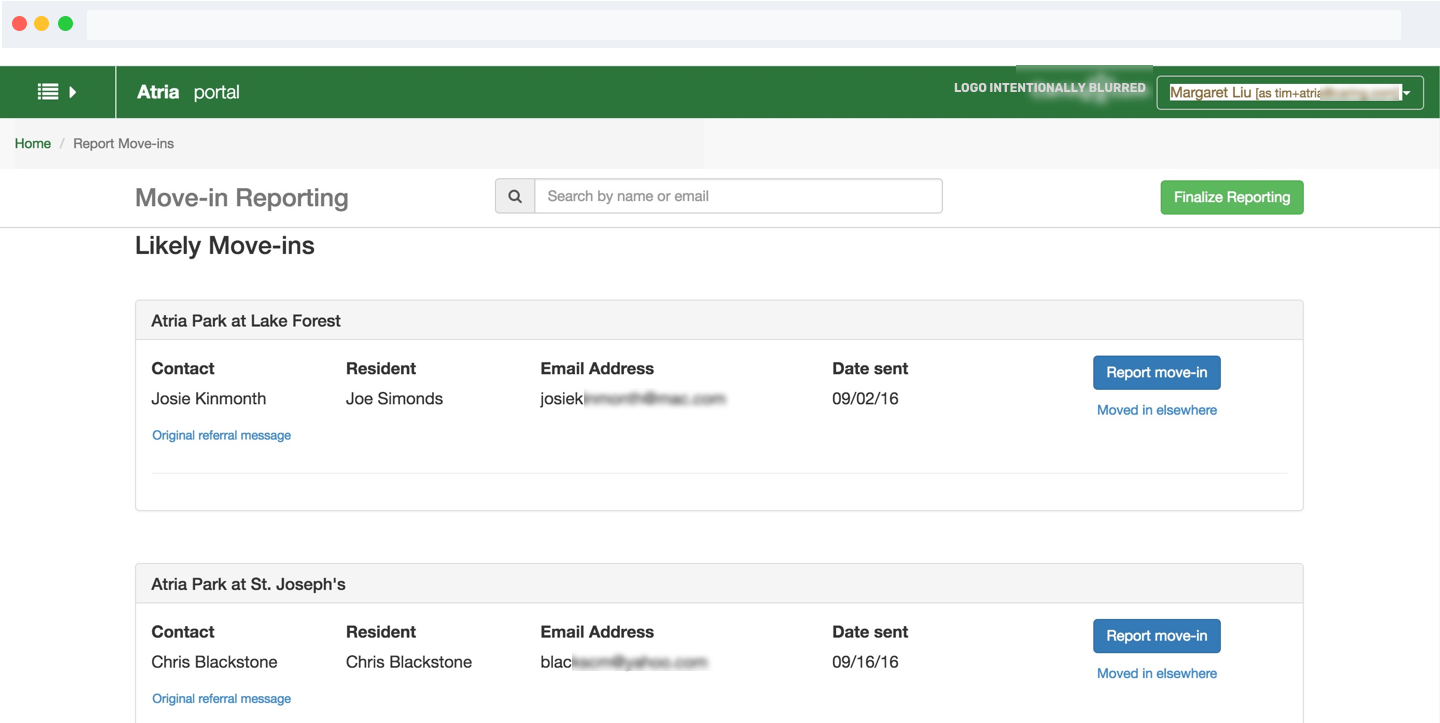
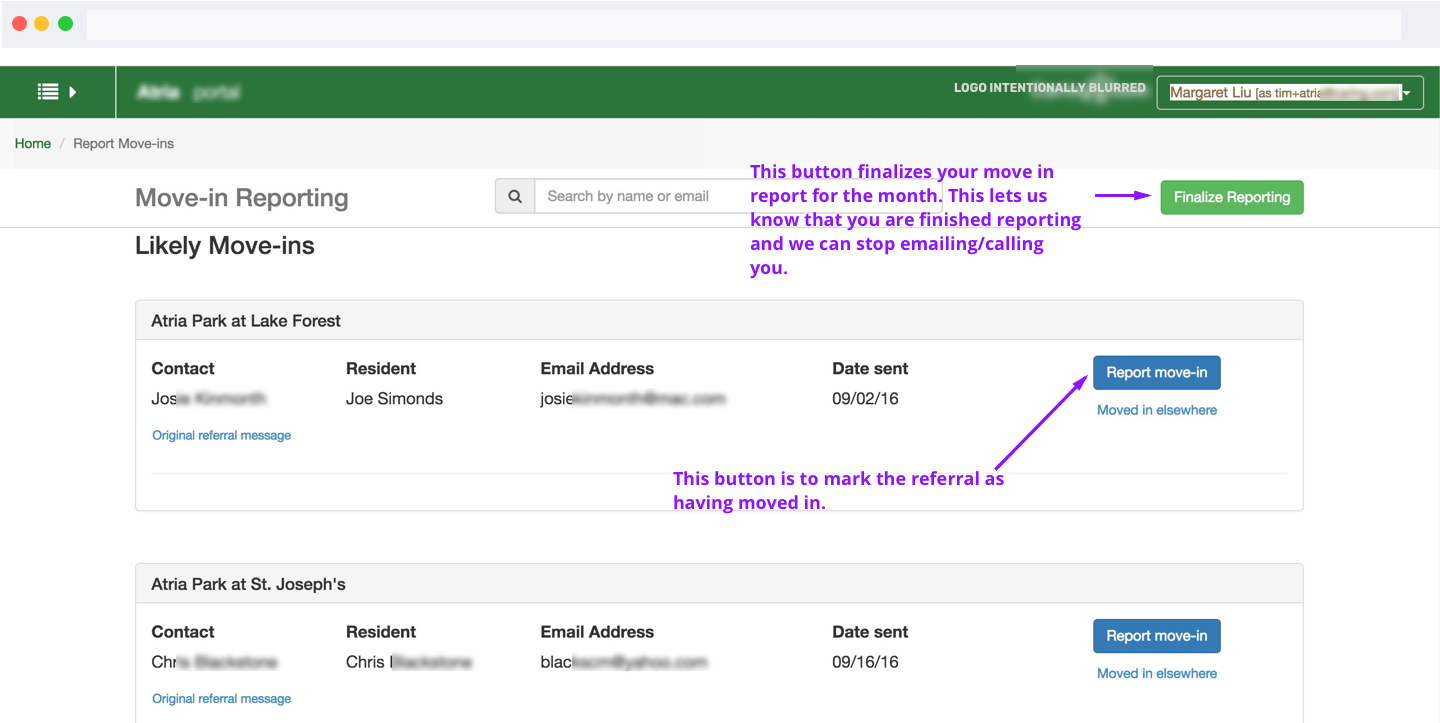
added more to portal page

diff --git a/portal.html b/portal.html
@@ -71,7 +71,7 @@
       <div class="wrapper">
         <div class="wrapper-section">
           <h1 class="wrapper-title">Dissecting the Problem</h1>
-          <p>I was given a set of business goals that I translated to better human experiences. Focusing on these human experiences is like the northern light for my design process. For me, that starts with getting to know the people that will be using our product. I sat with the PM and had casual conversations with some MVP users to just get a feel of how they felt about Partner Portal and how it tied in with their job and what motivates them. In our initial conversations, we focused on the big picture. We let this be the foundation for our product and later dug deeper to add the details. I translated these conversations to storyboards to discover what steps could be taken out, what felt natural and what didn’t, and opportunities where we could delight the user.</p>
+          <p>I was given a set of business goals that I translated to better human experiences. Focusing on these human experiences is like the northern light for my design process. For me, that starts with getting to know the people that will be using our product. I sat with the PM and had casual conversations with some users to just get a feel of how they felt about Partner Portal and how it tied in with their job and what motivates them. In our initial conversations, we focused on the big picture. We let this be the foundation for our product and later dug deeper to add the details. I translated these conversations to storyboards to discover what steps could be taken out, what felt natural and what didn’t, and opportunities where we could delight the user.</p>
           <img src="images/portalplanning.png" alt="My sketches for planning out partner portal" class="inline-images">
           <p class="caption">Scribbling out ideas and flows helps me to think - no matter how incomprehensible it may seem.</p>
           <img src="images/portal.gif" alt="Partner Portal" class="inline-images">
@@ -82,9 +82,7 @@
           <img src="images/likely_moveins.png" alt="Old Portal Move In Page" class="inline-images">
           <div class="caption">Portal move-ins page circa 2015. If you don't know the name of your referral, it could take a lot of scrolling to find. There was also a lot of confusion between the Finalize Reporting button and Report Move-in button.</div>
 
-        </div>
-        <div class="wrapper-section">
-          <h3 class="wrapper-title">Problems</h3>
+          <h3>Problems</h3>
           <ul>
             <li>Unable to update rates in real time, 24 hour lag</li>
             <li>Impossible to find leads in database</li>
@@ -94,7 +92,7 @@
         </div>
 
         <h1>Flow Mapping</h1>
-        <p>I focused most of the IA on our main flow; reporting a move in. Which parts could we cut? Which parts were more complex? Are there edge cases? Are there opportunities that we missed? We laid out the organization of the system so that we could see areas for improvement and landed on the below structure. </p>
+        <p>I focused most of the IA on our main flow; reporting a move in. Which parts could we cut? Which parts were more complex? Are there edge cases? Are there opportunities that we missed? We laid out the organization of the system so that we could see areas for improvement and landed on the below structure: </p>
         <img src="images/portalia.png" alt="Portal IA" class="inline-images">
 
         <p>The organization of the system was designed to accommodate new features that could be added in the future without compromising the most important ones.</p>
@@ -113,27 +111,60 @@
         <div class="caption">Visual organization = mental peace </div>
 
         <h1>Prioritizing Flows</h1>
-        <p>Through the initial research process, we concluded that Referrals should be made its own section allowing users to access the most important data with a single click. We compiled a spec that included the following:</p>
-        <ul>
-          <li>List of all leads that have been sent to the partner</li>
-          <li>Show the following data: date sent, statuses, contact name, phone number, resident name, agent name, agent phone number</li>
-          <li>Support SMB and chains</li>
-          <li>Form field for partners to be able to sent an update or add a note</li>
-          <li>Access a detailed view of any one referral</li>
-          <li>Search for Leads</li>
-          <li>Connect to referral emails</li>
-        </ul>
-        <p>After setting out to create an MVP, we had to decrease scope in some areas. The first version solved many of the issues we had with the old portal, but further testing revealed that it still wasn’t very intuitive. As a result, I played with various button placements and tweaked the layout and copy. </p>
+        <p>We had a set number of engineering points allocated for this story and that meant we had to prioritize and decrease scope. We focused on our initial goal of building a better relationship with our partners and used our research to discover what might be the biggest driving factor. In the end, we decided on re-designing the Report Move-ins Flow. </p>
 
-        <img src="images/referrallayouts.png" alt="different layouts for portal" class="inline-images">
+        <p>I started out with a critique of the current flow. Here is one page of many notes: </p>
 
-        <p>The flow still had a few tricky areas, but over a few iterations, these were resolved. I found that the two points that always appeared before a move-in was reported were from the Referral Detail view and from the Referrals View. Placing a “report move-in” button on those two pages made sense for the user and we saw a significant increase in move-in reporting.</p>
+        <img src="images/referralnotes.png" alt="critique of a page of the referrals flow" class="inline-images">
 
-        <img src="images/portalreferrals.png" alt="New referrals page in portal" class="inline-images">
-        <div class="caption">Final referrals page design</div>
+        <p>The first version solved many of the issues we had with the old portal, but further testing revealed that it still wasn’t very intuitive. More move-ins were being reported, but when we followed up on them, only the same amount were valid. It seemed that people were accidentally reporting move-ins.</p>
+
+        <p>The two places you can enter the flow from are the Referrals page and the Referral Details page. The split here was to reflect the two different ways you could report a move in. You could either report it on a monthly basis, in which you would select all the move ins you had that month and report them, or on a case by case basis, in which you would report them one by one as they moved in. Chains liked to use the monthly reporting feature, and SMBs used the case by case feature.</p>
+        <img src="images/portalfirstflow.png" alt="first flow for reporting move in" class="inline-images">
+
+        <h3>So What Went Wrong?</h3>
+
+        <p>First of all, the Create a Move-in button threw people off. To me, the flow was the same thing whether reporting monthly or case by case, but to the user they were very different and the buttons didn't show that.</p>
+
+        <img src="images/moveinbuttons.png" alt="side by side comparison of the report move in buttons" class="inline-images">
+        <div class="caption">On the left is the Referral page (monthly reporting) and on the right is the Referral Details page (case by case reporting).</div>
+
+        <p>Having the move-in register in our system before the user hit the final submit button was a decision we made based on fear. Fear that the user wouldn't know to follow through on the flow to submit the move-in. Boy were we wrong. In fact, the user would accidentally click report move-in so often that they were reporting move-ins that didn't happen, causing more work for both sides.</p>
+
+        <img src="images/entercostdata.png" alt="enter cost data page for reporting move ins" class="inline-images">
+        <div class="caption">The Enter Costs and Data page is optional information and a user can submit a move in without this data. Because of this, we register the move in as reported before they get to this page, but the flow implies that it would not be reported until they hit the final submit.</div>
+
+        <p>In the case where a community had no move-ins for the month, they needed a way to report that as well. However, the only way to do that was by entering the Report Flow and selecting <i>Report No Move-ins</i> at the first step. This was counterintuitive and caused many people to get frustrated.</p>
+
+        <img src="images/nomoveins.png" alt="report no move ins flow" class="inline-images">
+
+        <h3>Iterate, iterate, iterate!</h3>
+
+        <p>To solve the above problems, I developed a new, single flow that could be used for monthly and case by case reporting. Referrals on the Referral page would be ordered based on their status; with active leads at the top, then cold, and so on (there's no point showing deceased or closed leads at the top). When the user comes to the page to report a move-in, they can do so directly on the page without ever having to navigate away. The seamlessness of the new flow made it just as easy to report mulitple move-ins as it was to report just one.</p>
+
+        <img src="images/reportmovein2.png" alt="new report move ins flow" class="inline-images">
+
+        <p>When it's time to report monthly move-ins, a blue info bar will appear at the top of the page so that communities with no move-ins can report that through a quick link.</p>
+
+        <img src="images/reportnonebar.png" alt="info bar for reporting no move ins" class="inline-images">
+
+        <p>The area also served as a great place to list out referrals they had already reported on a case by case basis for the month. If those were the only ones they had to report, we gave them an easy way to finalize their reporting and stop getting emails from us.</p>
+
+        <img src="images/bluebar.png" alt="info bar showing referrals already reported as moved in" class="inline-images">
+
+        <p>In the new flow, the move-in would only register in our system if the user completed the reporting flow. Placing the <i>optional</i> tag next to the form labels instead in copy was a more concise and noticeable way to inform users that they could click "Next" without the extra information.</p>
+
+        <p>Right next to the "Report Move-in" button on each row is also a "More" link to report other statuses for the lead besides "Moved-in". This placement made sense for the user and was a benefit to us since we could get extra information rather easily.</p>
+
+        <img src="images/morebutton.png" alt="more actions button drop down on referrals page" class="inline-images"> 
+
+        <p>In the end, we were able to cut the number of steps in monthly reporting down to 2 and maintain consistency between monthly and case by case reporting. Users can still report a move-in through the Referral Details page, but they would be using the same flow as the Referrals page. </p>
+
+        <img src="images/referraldetailspage.png" alt="report move in from referral details page" class="inline-images">
 
         <h1>What I Learned</h1>
-        <p>Portal was one of the first big projects I worked on in my time here and it was a nice introduction to the importance of an established style guide for engineers. I assumed that the engineers could see what I saw when they couldn't. Having predetermined components and styles create rules that engineers can follow and understand. Furthermore, creating logical rules for button and element behaviors also help them to make decisions on edge cases where there may not be a design already in place.</p>
+        <p>Portal was one of the first big projects I worked on in my time here and it had a lot of eyes on it. Design is much more than just creating flows and pretty visuals, it's also about collaboration and communication. Managing expectations with stakeholders and working with them every step of the way, made them feel personally invested in my designs and when something didn't work the way we expected it to, blame was not passed around. Instead, there was a collective effort to reinvent and improve.</p>
+
         <a href="https://www.behance.net/gallery/58314553/Partner-Portal" class="btn">View on Behance
           <svg>
             <rect x="0" y="0" fill="none" width="166" height="45"/>

diff --git a/talk.html b/talk.html
@@ -73,7 +73,7 @@
           <h1>Let's Talk About Talk</h1>
           <p>Talk was a tough project to tackle, mainly because as it existed, it was already pretty good. Talk is also our main source of revenue and possibly our most important product. Lots of pressure, amiright?</p>
 
-          <img src="images/talk.gif" alt="New Talk" class="inline-images">
+          <img src="images/Talk.gif" alt="New Talk" class="inline-images">
           <div class="caption">I created a column based layout for easier scanning and gave structure to all data cells. Color is only used where necessary and each section is clearly separated.</div>
 
           <p>The business had identified the sending of low quality leads and call inefficiency as the main problems. The solutions they architected were better lead ordering and a faster search algorithm. My job was to design how these would be implemented into the product.</p>
@@ -81,7 +81,7 @@
           <img src="images/talkplanning.png" alt="planning out talk" class="inline-images">
           <div class="caption">Please don't judge me for my bad handwriting!</div>
 
-          <p>I sat through several sales calls and watched our sales team use Talk, then had one on one conversations with those users to compare my notes with their actual thought process. Despite their generally positive view of Talk, they would often run into roadblocks in the tool but find creative ways of working around them. For example, we show them previous emails that are sent when they hover over the email icon - but because you can’t actually interact with the text in the hover pop up they use internal notes to keep a record of emails sent instead. It seemed that call inefficiency wasn’t rooted so much in a slow search, but a better UI. </p>
+          <p>I sat through several sales calls and watched our sales team use Talk, then had one on one conversations with those users to compare my notes with their actual thought process. Despite their generally positive view of Talk, they would often run into roadblocks in the tool but find creative ways of working around them. For example, we show them previous emails that are sent when they hover over the email icon - but because you can’t actually interact with the text in the hover pop up they use internal notes to keep a record of emails sent instead. It seemed that call inefficiency wasn’t rooted so much in a slow search, but better usability. </p>
 
           <img src="images/talkhover.png" alt="Email hover in Talk" class="inline-images">
           <div class="caption">Hovering over the email icon displays the sent message. This interaction was not useful for the user.</div>
@@ -90,21 +90,23 @@
           <img src="images/oldtalk.gif" alt="Talk circa 2014" class="inline-images">
           <div class="caption">Talk's main page was designed with no attention to vertical rhythm, use of space, visual heirarchy, and no intentionality behind elements.</div>
 
-          <h1>UI</h1>
+          <h1>Usability</h1>
           <p>Users couldn’t find the form field they needed fast enough while on a call and would often type information into a word doc and then go back after the call to enter that information into the form fields. I suggested we use category cards to better define where form fields should live and how they should be grouped. When grouping didn’t give significant enough results, I explored other options. I ended up creating well-defined sections that reduced cognitive load, and a more narrow layout that was easier to digest and scroll through. Small visual details like label proximity to form field, line height and white space, and color coded icons also improved the readability of the page. </p>
 
           <h1>Simple Solutions</h1>
           <p>A complaint we got a lot was that “Talk is too slow.” Making it faster would take a lot of engineering points so I tried to figure out exactly why users thought that way and if there was a simple solution. Through Mouseflow, I found that “rage clicking” occurred whenever there was an error message or when users searched or added a lead. How could these interactions be designed so that they pacified the user?</p>
 
-          <p>I played with different error messaging and realized that the placement of the message was key. As long as it was close to where the error was occuring, the user seemed satisfied with the interaction.</p>
+          <p>Generally, error messages are a negative user experience. I tried to limit these by first showing warning notifications whenever a user would leave a section and go to the next without entering required information. I used playful language that was clear and felt like a conversation rather than a 404 error. This was also helpful for the user during a call to see what fields they might have missed and be able to catch those before the call ended.</p>
 
-          <p>Most users would have to do several searches for different care levels which was what made the process take so long. If the user could limit their search to once or twice, it seemed much quicker without having to actually make the search engine work faster. The solution to this was a simple multi select feature in the search box.</p>
+          <img src="images/warning.png" alt="warning notification" class="inline-images">
+
+          <p>The current search algorithm can only search by one care level and location at a time. However, because most callers could be placed in more than one care level, users would have to search multiple times. By giving them a simple multi select feature for care levels, the process seemed much faster without having to change the search engine at all. </p>
 
           <p>Adding leads was an opportunity for us to delight the user. We added a fun animation each time the user clicked the “add lead” button and changed the words from “add lead” to “adding”. This feedback reassured the user the action had been received even if it took a little longer to execute, and the animation acted as a reward for the wait.</p>
           <img src="images/adding_animation.gif" alt="adding animation" class="inline-images">
 
           <h1>What I Learned</h1>
-          <p>This was the first product I touched that had clear constraints and many many of them. It was extremely complicated with layers of information and a lot of key stakeholders. It took quite a few iterations to get it to where it is now and I still don’t (if ever) feel that it’s complete. However this journey has been a great learning experience, from supporting other departments to conducting more comprehensive user tests, it has taught me many lessons in designing better.</p>
+          <p>This was the first product I touched that had clear constraints and many many of them. It was extremely complicated with layers of information and a lot of key stakeholders. It took quite a few iterations to get it to where it is now and I still don’t (if ever) feel like it’s complete. However this journey has been a great learning experience, from supporting other departments to conducting more comprehensive user tests, it has taught me many lessons in designing better.</p>
 
           <p>Halfway through learning our sales flow, I found myself trying to redesign the sales flow instead of Talk. I imagine this is a problem most designers face when they try to redesign everything. I recognized that I need to trust others to be experts in their domain and design to support that. </p>
 

diff --git a/styles/styles.css b/styles/styles.css
@@ -309,6 +309,7 @@ nav ul {
 }
 .drawing {
   width: 25%;
+  max-width: 350px;
   position: absolute;
   padding-left: 2rem;
 }
